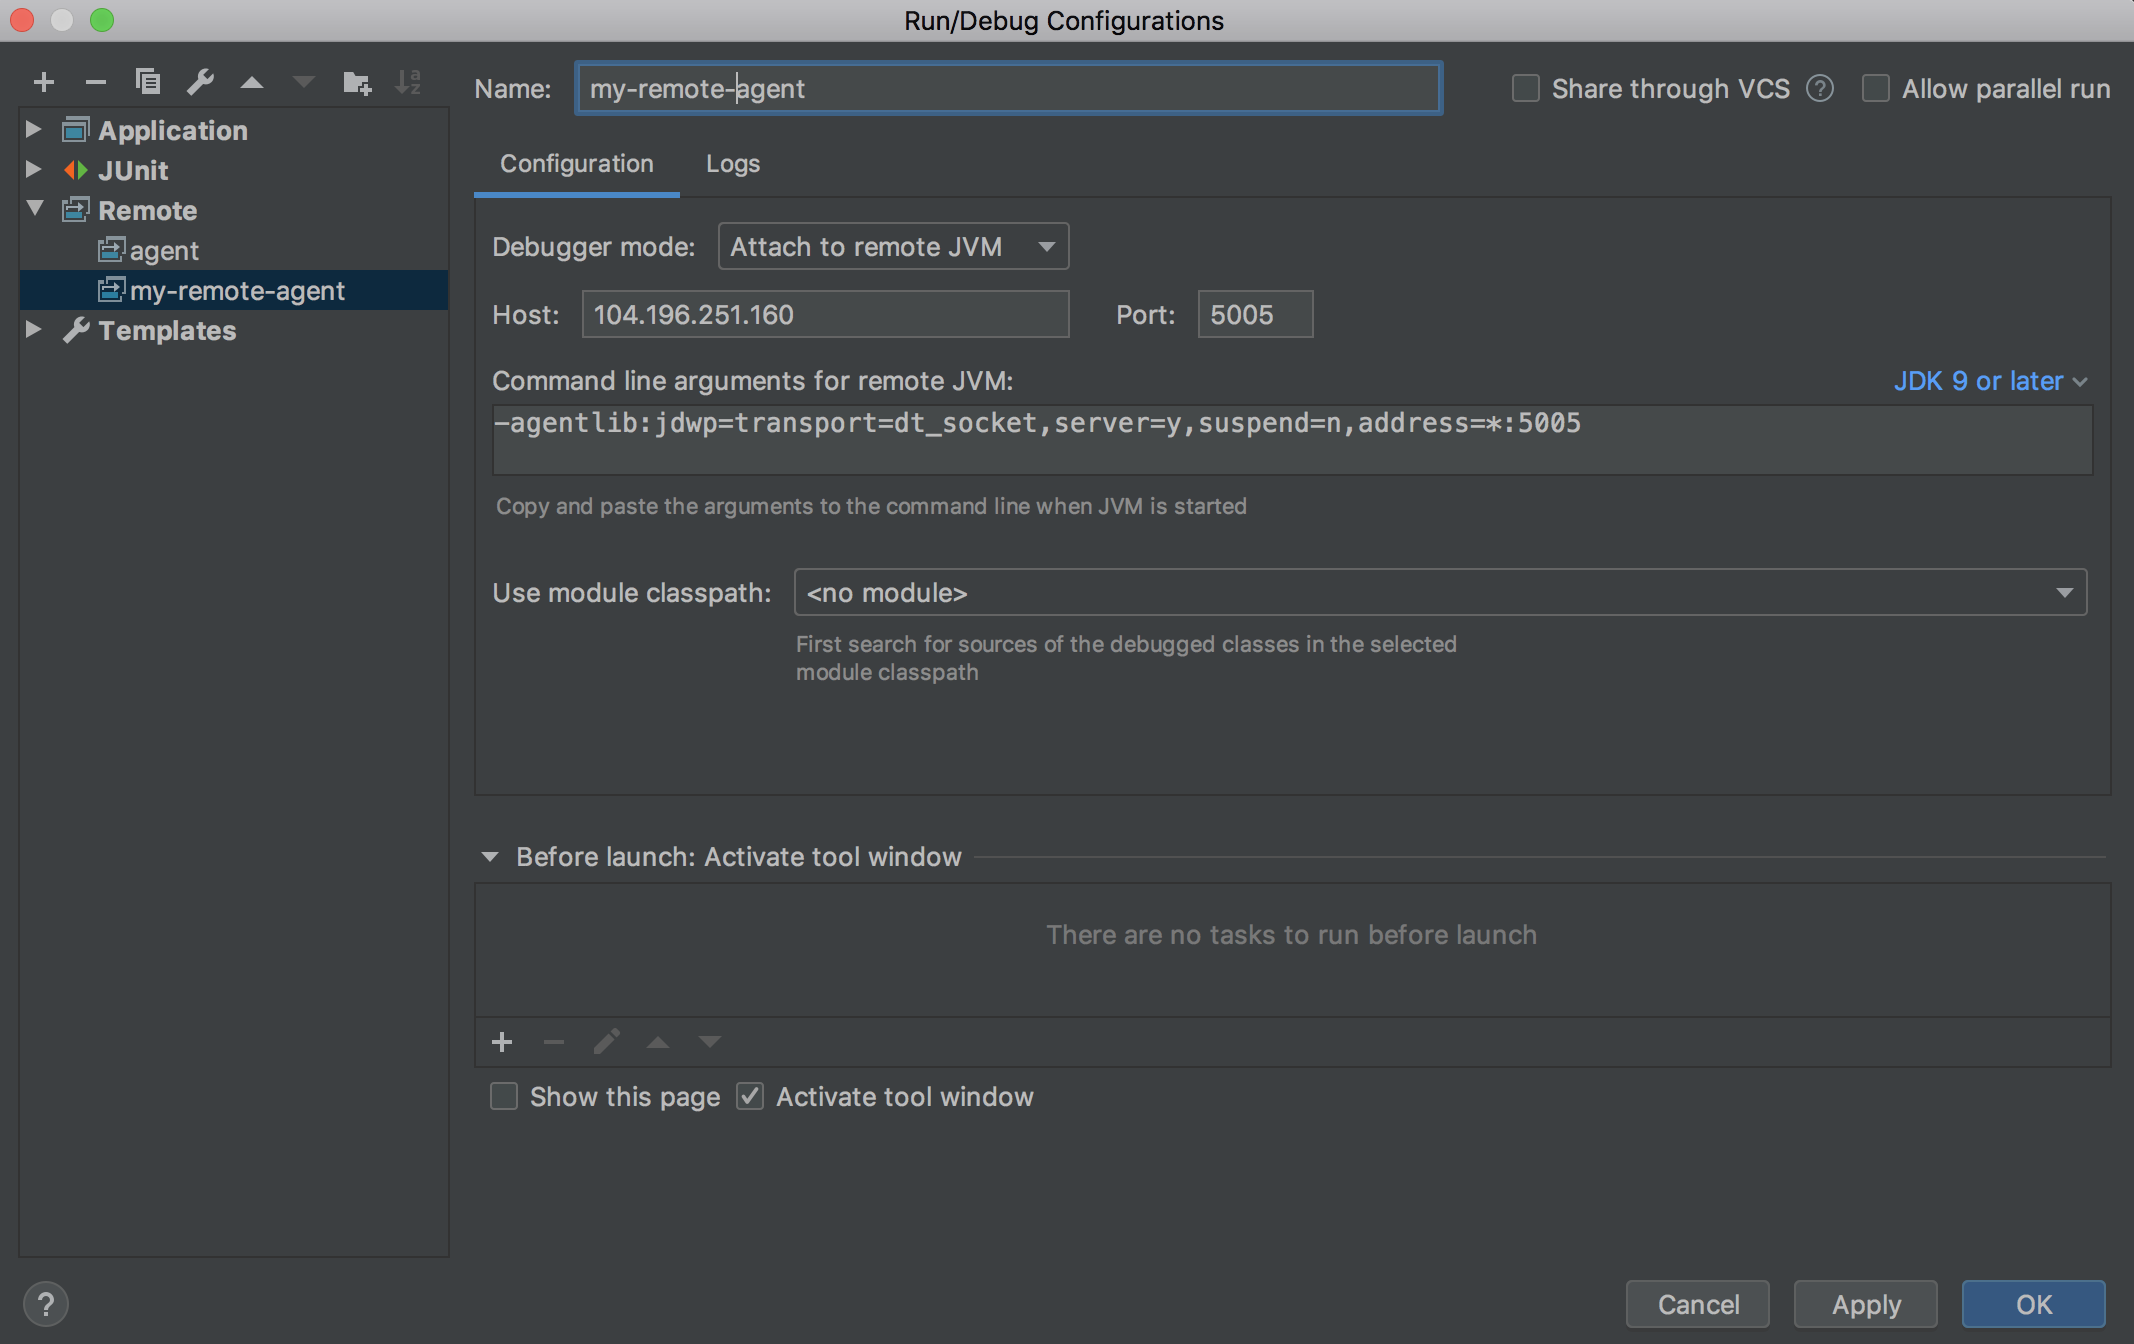
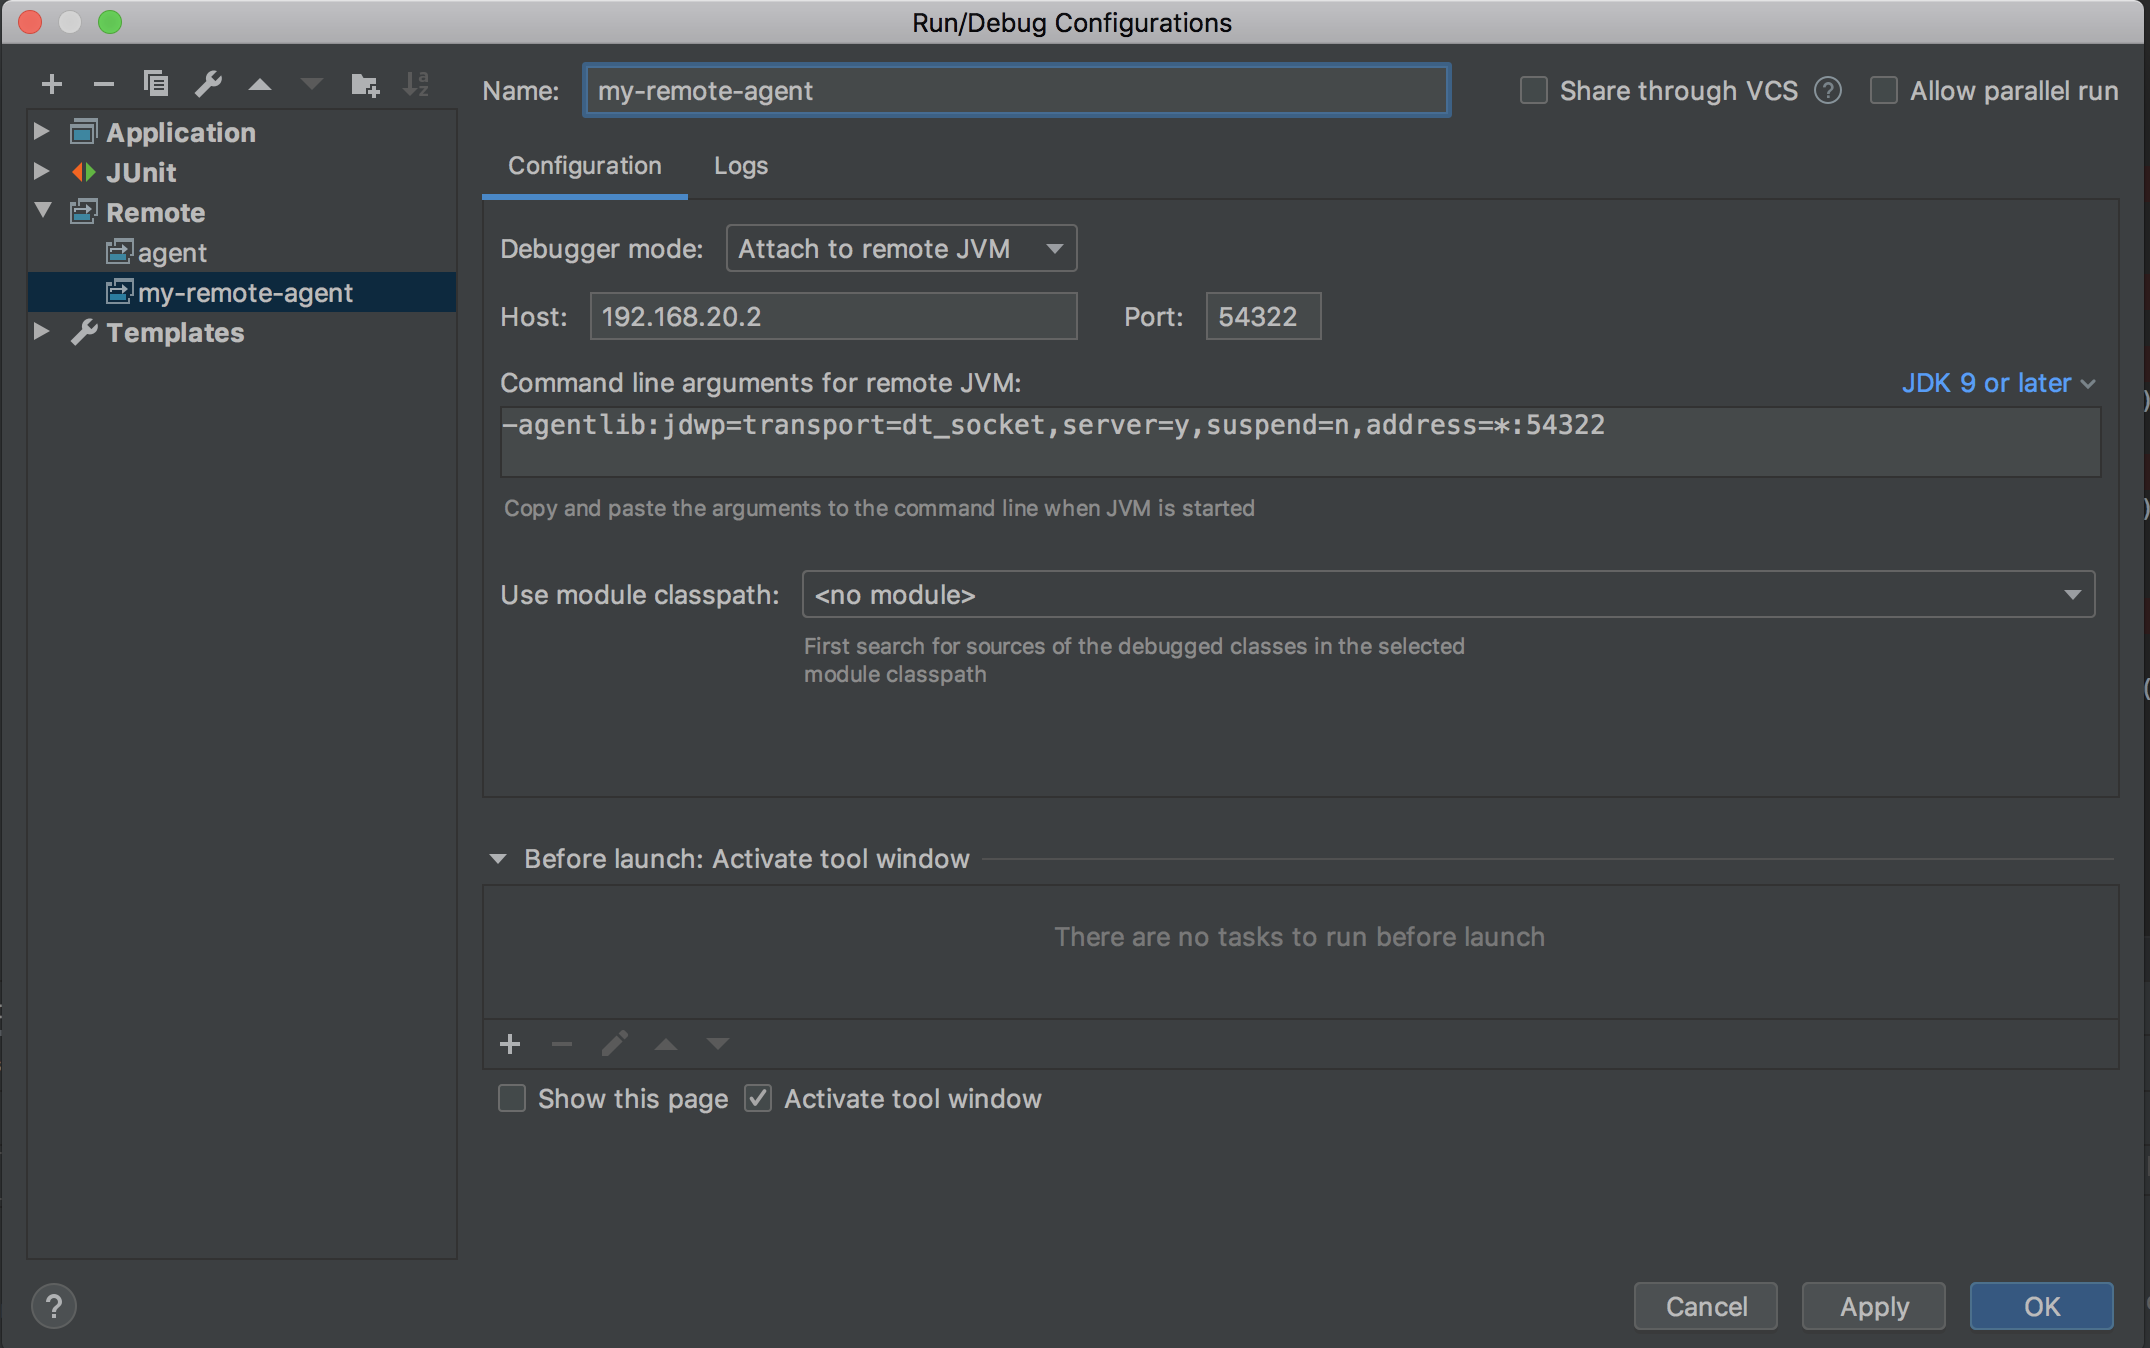
developing-microservices links updated

diff --git a/content/docs/2.0.0/getting-started/quick-start-local.md b/content/docs/2.0.0/getting-started/quick-start-local.md
@@ -234,7 +234,7 @@ iofogctl delete all
 
 Now that you have seen what ioFog is about, you can create a real ECN with remote hosts. Instructions are found [here](../platform-deployment/introduction.html).
 
-We can also try deploying other Microservices on the local ECN. We can find instructions on writing our own Microservice [here](../writing-microservices/overview.html) and a step-by-step [tutorial](../tutorial/introduction.html).
+We can also try deploying other Microservices on the local ECN. We can find instructions on writing our own Microservice [here](../developing-microservices/overview.html) and a step-by-step [tutorial](../tutorial/introduction.html).
 
 <aside class="notifications contribute">
   <h3><img src="/images/icos/ico-github.svg" alt="">See anything wrong with the document? Help us improve it!</h3>

diff --git a/content/docs/2.0.0/developing-microservices/debugging.md b/content/docs/2.0.0/developing-microservices/debugging.md
@@ -10,7 +10,7 @@ The Docker folks have several wonderful tutorials on debugging, e.g. [a Node.js 
 
 <aside class="notifications contribute">
   <h3><img src="/images/icos/ico-github.svg" alt="">See anything wrong with the document? Help us improve it!</h3>
-  <a href="https://github.com/eclipse-iofog/iofog.org/edit/develop/content/docs/2.0.0/writing-microservices/debugging.md"
+  <a href="https://github.com/eclipse-iofog/iofog.org/edit/develop/content/docs/2.0.0/developing-microservices/debugging.md"
     target="_blank">
     <p>Edit this page on Github!</p>
   </a>

diff --git a/content/docs/2.0.0/developing-microservices/sdk.md b/content/docs/2.0.0/developing-microservices/sdk.md
@@ -20,7 +20,7 @@ The ioFog SDK is an _optional_ library. It provides an easy way for your edge no
 
 <aside class="notifications contribute">
   <h3><img src="/images/icos/ico-github.svg" alt="">See anything wrong with the document? Help us improve it!</h3>
-  <a href="https://github.com/eclipse-iofog/iofog.org/edit/develop/content/docs/2.0.0/writing-microservices/sdk.md"
+  <a href="https://github.com/eclipse-iofog/iofog.org/edit/develop/content/docs/2.0.0/developing-microservices/sdk.md"
     target="_blank">
     <p>Edit this page on Github!</p>
   </a>

diff --git a/content/docs/2.0.0/developing-microservices/overview.md b/content/docs/2.0.0/developing-microservices/overview.md
@@ -80,7 +80,7 @@ It is detailed in our [tutorial](../tutorial/introduction.html)
 
 <aside class="notifications contribute">
   <h3><img src="/images/icos/ico-github.svg" alt="">See anything wrong with the document? Help us improve it!</h3>
-  <a href="https://github.com/eclipse-iofog/iofog.org/edit/develop/content/docs/2.0.0/writing-microservices/overview.md"
+  <a href="https://github.com/eclipse-iofog/iofog.org/edit/develop/content/docs/2.0.0/developing-microservices/overview.md"
     target="_blank">
     <p>Edit this page on Github!</p>
   </a>

diff --git a/content/docs/2.0.0/reference-agent/debugging.md b/content/docs/2.0.0/reference-agent/debugging.md
@@ -18,7 +18,7 @@ Here we'll see how to remotely debug our Agent. This assumes we have an IntelliJ
     <figcaption>Step to add remote agent</figcaption>
 </figure>
 
-- Change the port number to 5005.
+- Change the port number to 54322.
 
 - Change the host with the Agent ip.
 
